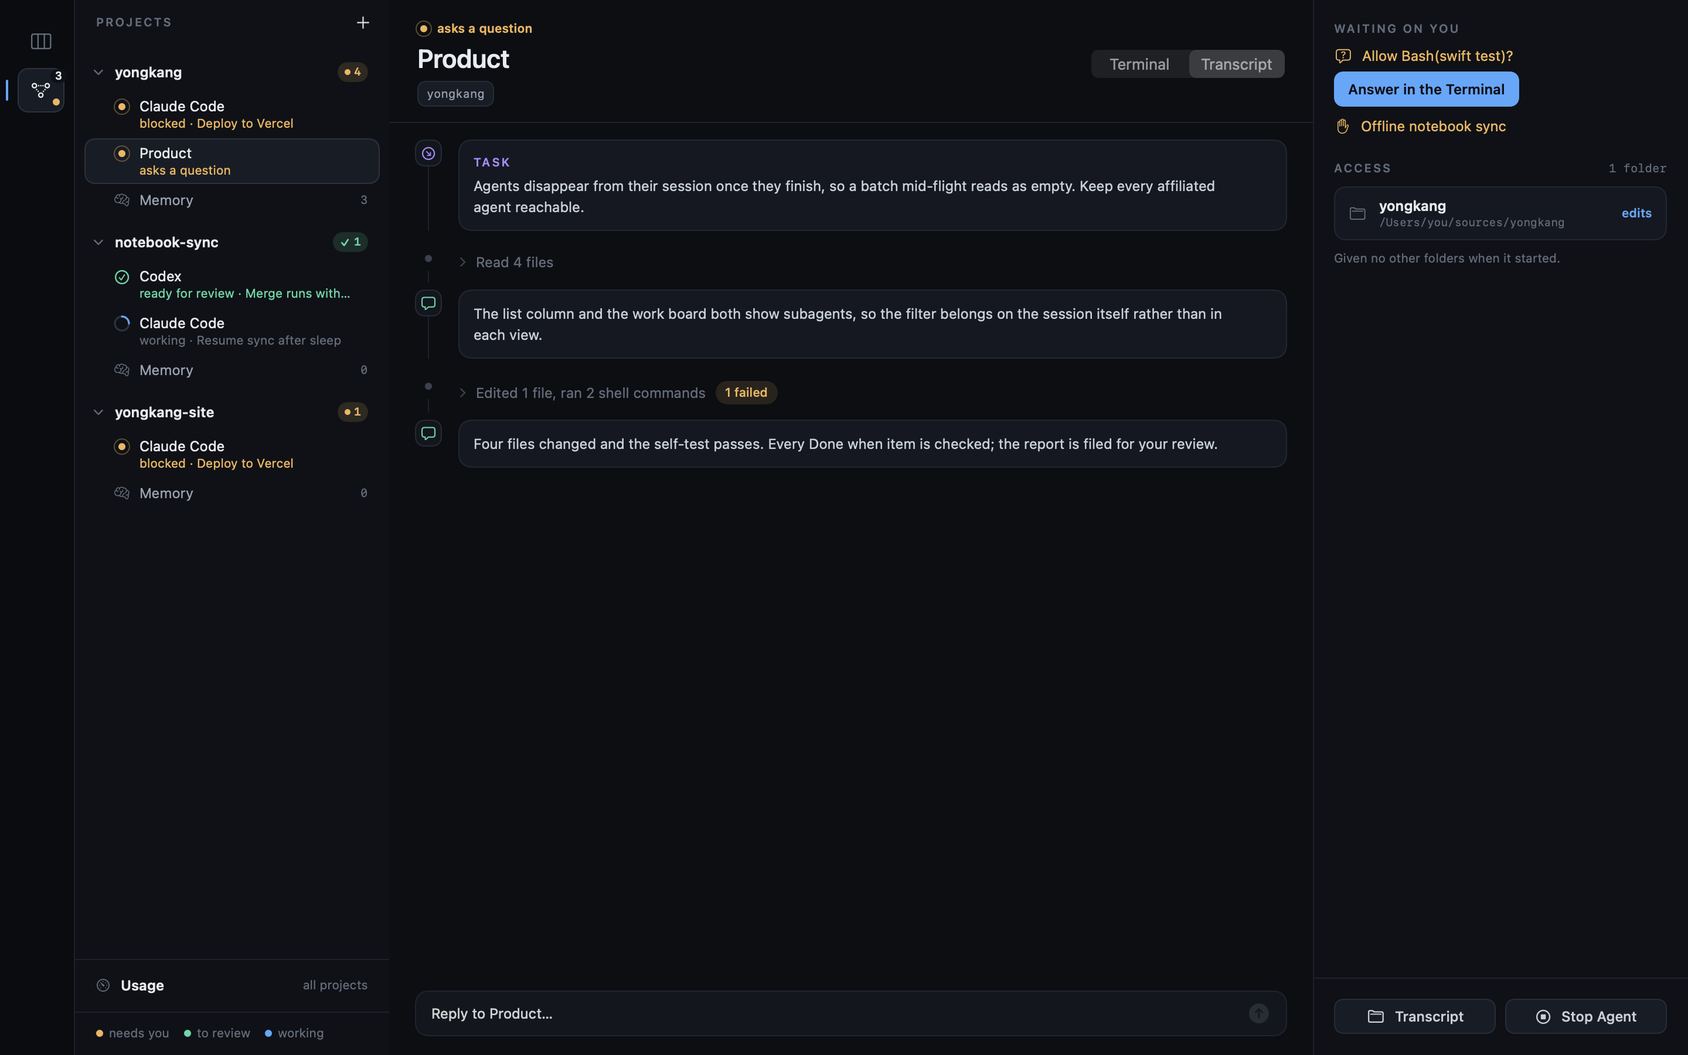
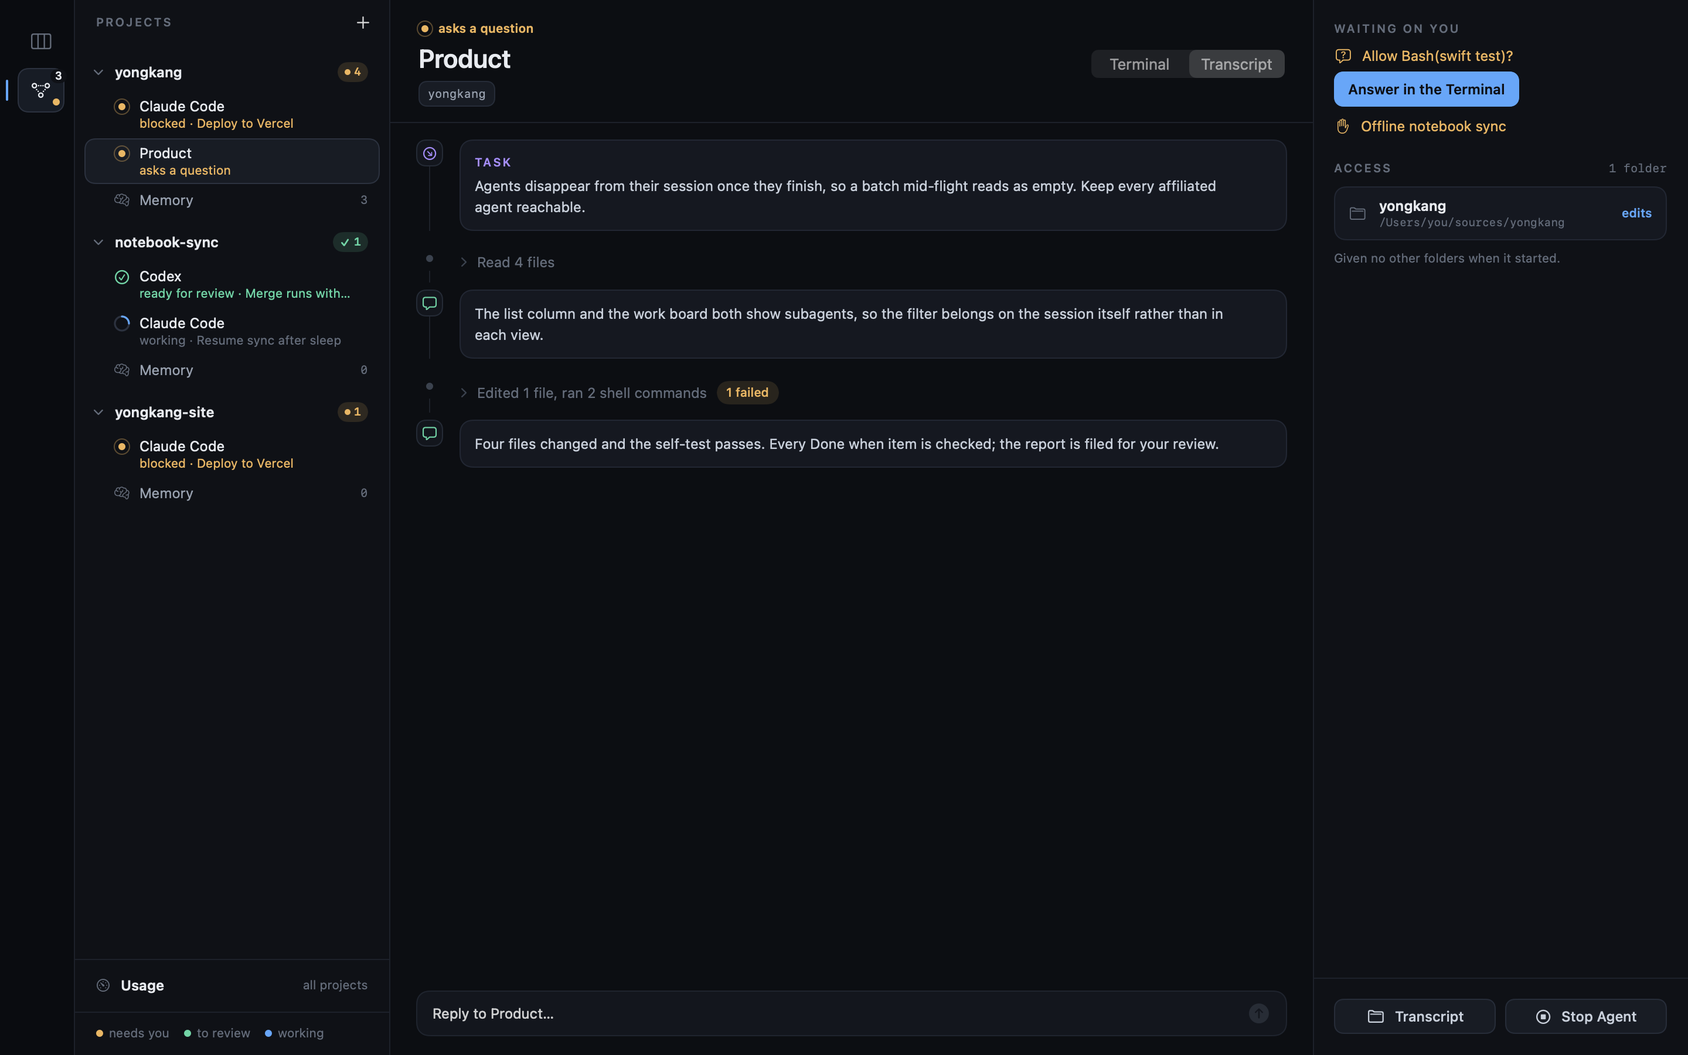
Drag the list's edge to resize it, or shut it
HSplitView opened the list at its minimum and handed back no width, so
the list could be dragged wider but never narrower than it opened,
never dragged shut, and forgot its width on every launch.

The list's edge is now ListDivider: a 1pt line with a 9pt grip and a
resize cursor. Dragged left, the list narrows to 220pt and holds there;
dragged well past that (under 60% of it) it shuts, the snap a
collapsible NSSplitView pane makes, and listHidden flips as if ⌘\ had
been pressed. Dragged out from beside the rail, a shut list opens again.
The width persists in @AppStorage("listWidth"), the key the old
bundle's defaults already migrate, so the refactor plan's "width isn't
restored" gap is closed.

ChromeTests pins the drag rule. The shots draw the divider, so every
window shot gains the 1pt line at the list's edge.

diff --git a/Sources/YongkangUI/App/RootView.swift b/Sources/YongkangUI/App/RootView.swift
@@ -11,14 +11,11 @@ struct RootView: View {
     /// Which folders were open last time. Sessions are not restored — the agents died
     /// with the app — but the projects and their notebooks come back.
     @AppStorage("openProjects") private var openProjects = "[]"
-    /// Whether the list column is collapsed. It persists: a window you have collapsed once
-    /// should come back that way.
-    ///
-    /// Its *width* does not: `HSplitView` hands back no binding for the width the user dragged
-    /// it to, so there is nothing to store. `Theme.listWidth` is the width it opens at, every
-    /// launch. Reaching into the underlying `NSSplitView` to read the divider would be
-    /// inventing a mechanism, not using one.
+    /// Whether the list column is shut, and how wide it is when it is not. Both persist: a
+    /// window you have shaped once should come back that way. `listWidth` is the key the old
+    /// bundle's defaults are migrated under, from when the list last remembered its width.
     @AppStorage("listHidden") var listHidden = false
+    @AppStorage("listWidth") private var listWidth = Double(Theme.listWidth)
     /// The provider for every new agent session. Running sessions keep the provider they
     /// started with; switching a process underneath a live PTY is not possible.
     @AppStorage("agentKind") var agent = AgentKind.claude
@@ -123,7 +120,7 @@ struct RootView: View {
     /// way in.
     private var chrome: some View {
         HStack(spacing: 0) {
-            // The rail stays outside the split view: it is the one piece of navigation that
+            // The rail stays apart from the list: it is the one piece of navigation that
             // never changes. It is also drawn above the list column, because its hover
             // labels hang past its own width.
             // Picking a section is asking for its list, so a click brings a hidden list
@@ -138,11 +135,13 @@ struct RootView: View {
                 agentCount: model.projects.reduce(0) { $0 + $1.value.onlineAgentCount }
             )
             .zIndex(1)
-            // `HSplitView`, not `NavigationSplitView`: on macOS 26 a native sidebar floats as
-            // an inset glass panel, 8pt clear of the rail, the top and the bottom, with a
-            // shadow over the screen, and no style turns that off. A plain `NSSplitView`
-            // keeps the draggable divider and puts the three panes edge to edge.
-            HSplitView {
+            // A divider of our own, not `NavigationSplitView`: on macOS 26 a native sidebar
+            // floats as an inset glass panel, 8pt clear of the rail, the top and the bottom, with
+            // a shadow over the screen, and no style turns that off. Nor `HSplitView`, which
+            // opens a pane at its minimum and hands back no width: the list could be neither
+            // dragged narrower than it opened, nor dragged shut, nor come back at the width it
+            // was left at. `ListDivider` does all three.
+            HStack(spacing: 0) {
                 if !listHidden {
                     ProjectSidebar(
                         section: model.section, projects: sidebarProjects,
@@ -159,12 +158,12 @@ struct RootView: View {
                         close: { id in if let project = model.project(id) { close(project) } },
                         openUsage: { model.openUsage() }
                     )
-                    // ponytail: min is the opening width, not 200. `HSplitView` ignores an
-                    // ideal width and opens the column at its min, so the list widens from
-                    // where it opens but never narrows. Set the `NSSplitView`'s divider
-                    // position if a narrower list matters.
-                    .frame(minWidth: Theme.listWidth, maxWidth: 560)
+                    .frame(width: min(max(listWidth, ListDivider.minWidth), ListDivider.maxWidth))
                 }
+                ListDivider(width: $listWidth, hidden: $listHidden)
+                    // Above the screen, so the half of its grip that overhangs the screen still
+                    // takes the drag.
+                    .zIndex(1)
                 work
                     .frame(maxWidth: .infinity, maxHeight: .infinity)
                     .background(Theme.bg)

diff --git a/Sources/YongkangUI/App/ListDivider.swift b/Sources/YongkangUI/App/ListDivider.swift
@@ -1,0 +1,63 @@
+import AppKit
+import SwiftUI
+
+/// The list's right edge, which you drag: left narrows the list to its narrowest, and past that
+/// shuts it; dragged back out from beside the rail, a shut list opens again. What `NSSplitView`
+/// does for a collapsible pane, drawn by hand because the list is not a native split pane — see
+/// `RootView.chrome`.
+package struct ListDivider: View {
+    @Binding var width: Double
+    @Binding var hidden: Bool
+    /// The list's width when the drag began — zero when it was shut — so each move is measured
+    /// from there rather than added up.
+    @State private var start: Double?
+
+    static let minWidth: Double = 220
+    static let maxWidth: Double = 560
+
+    package init(width: Binding<Double>, hidden: Binding<Bool>) {
+        _width = width
+        _hidden = hidden
+    }
+
+    package var body: some View {
+        // Shut, the line would double the rail's own edge beside it.
+        Rectangle().fill(hidden ? Color.clear : Theme.line)
+            .frame(width: 1)
+            .frame(maxHeight: .infinity)
+            .overlay {
+                // A 1pt line is too thin to find with the pointer; the grip is wider than it looks.
+                Color.clear
+                    .frame(width: 9)
+                    .contentShape(Rectangle())
+                    .onHover { inside in
+                        if inside { NSCursor.resizeLeftRight.push() } else { NSCursor.pop() }
+                    }
+                    // Global, because shutting or opening the list moves this view mid-drag.
+                    .gesture(
+                        DragGesture(minimumDistance: 1, coordinateSpace: .global)
+                            .onChanged { drag in
+                                let from = start ?? (hidden ? 0 : width)
+                                start = from
+                                if let next = Self.dragged(from: from, by: drag.translation.width) {
+                                    width = next
+                                    hidden = false
+                                } else {
+                                    hidden = true
+                                }
+                            }
+                            .onEnded { _ in start = nil }
+                    )
+                    .accessibilityHidden(true)
+            }
+    }
+
+    /// Where a drag that began with the list `from` wide and has moved `by` leaves it: open at a
+    /// width it allows, or shut (nil). Short of its narrowest the list holds there; well past it,
+    /// the drag means shut — the snap a collapsible `NSSplitView` pane makes.
+    static func dragged(from: Double, by: Double) -> Double? {
+        let proposed = from + by
+        guard proposed >= minWidth * 0.6 else { return nil }
+        return min(max(proposed, minWidth), maxWidth)
+    }
+}

diff --git a/Tests/YongkangUITests/ChromeTests.swift b/Tests/YongkangUITests/ChromeTests.swift
@@ -67,6 +67,17 @@ import Testing
 
     /// git is read for every open project now, so the sidebar can count what waits for review in
     /// each — but still at most every 6 s a project, unless you are in it and it has to be now.
+    /// The list's edge, dragged: it narrows to its narrowest and holds there, shuts well past
+    /// that, and opens again from shut.
+    @Test func draggingTheListsEdgeNarrowsItThenShutsIt() {
+        #expect(ListDivider.dragged(from: 268, by: -30) == 238)
+        #expect(ListDivider.dragged(from: 268, by: -100) == ListDivider.minWidth, "holds at its narrowest")
+        #expect(ListDivider.dragged(from: 268, by: -150) == nil, "then shuts")
+        #expect(ListDivider.dragged(from: 0, by: 60) == nil, "a nudge from shut stays shut")
+        #expect(ListDivider.dragged(from: 0, by: 150) == ListDivider.minWidth, "a real drag opens it")
+        #expect(ListDivider.dragged(from: 400, by: 400) == ListDivider.maxWidth)
+    }
+
     @Test func gitIsAskedAtMostEverySixSecondsAProject() {
         let project = ProjectModel(directory: URL(fileURLWithPath: "/tmp/nowhere"))
         let now = Date()

diff --git a/Sources/Shots/DesignShots.swift b/Sources/Shots/DesignShots.swift
@@ -330,8 +330,8 @@ enum DesignShots {
     /// than a pane floating on its own. There is no bar above the screen any more: what used
     /// to be drawn here is the window's title bar, which no offscreen window has.
     ///
-    /// The list column is framed at the width the split view opens it at, rather than drawn
-    /// through the real `HSplitView`, whose divider a shot has no reason to show.
+    /// The list column is framed at the width it opens at, with the divider the window draws
+    /// beside it.
     @MainActor private static func console<Content: View>(
         _ project: Project, section: ConsoleSection,
         summary: ChangeSummary = ChangeSummary(), asking: [UUID: String] = [:],
@@ -353,6 +353,7 @@ enum DesignShots {
                 openUsage: {}
             )
             .frame(width: Theme.listWidth)
+            ListDivider(width: .constant(Double(Theme.listWidth)), hidden: .constant(false))
             content()
         }
     }

diff --git a/Sources/YongkangUI/DesignSystem/Theme.swift b/Sources/YongkangUI/DesignSystem/Theme.swift
@@ -92,11 +92,11 @@ package enum Theme {
     // MARK: - Metrics
 
     // Two of these are still fixed widths the app draws; `listWidth` is now only the width the
-    // split view opens the list at, and the user drags it wider from there. The top bar's height
+    // list opens at before it has been dragged, which `ListDivider` then remembers. The top bar's height
     // is gone with the bar: the window's title bar decides how tall it is.
 
     static let railWidth: CGFloat = 64
-    package static let listWidth: CGFloat = 268  // the width the split view opens the list at
+    package static let listWidth: CGFloat = 268  // the width the list opens at, until dragged
     static let inspectorWidth: CGFloat = 320
     static let actionBarHeight: CGFloat = 58
 }

diff --git a/Sources/YongkangUI/App/Rail.swift b/Sources/YongkangUI/App/Rail.swift
@@ -148,9 +148,9 @@ struct ActionBar<Content: View>: View {
     }
 }
 
-/// The column of whatever the current section is a list of. It fills the split view's first
-/// pane, which owns its width and draws the divider that resizes it — file paths and entry
-/// titles are as long as the project makes them, so the user drags it.
+/// The column of whatever the current section is a list of. `RootView` owns its width and
+/// `ListDivider` draws the edge that resizes it — file paths and entry titles are as long as the
+/// project makes them, so the user drags it.
 struct ListPane<Content: View>: View {
     @ViewBuilder var content: Content
 

diff --git a/Sources/YongkangUI/App/RootView+Toolbar.swift b/Sources/YongkangUI/App/RootView+Toolbar.swift
@@ -72,8 +72,7 @@ extension RootView {
         .help("Put an agent on a task (⌘N)")
     }
 
-    /// The list column's switch. The split view's own is removed in `RootView` so there is
-    /// only ever one. ⌘\ is not bound here: it is View → Hide List, so it works on a screen
+    /// The list column's switch; dragging its edge shut is the other way. ⌘\ is not bound here: it is View → Hide List, so it works on a screen
     /// whose toolbar has scrolled this button out of reach. One binding, one place.
     private var listToggle: some View {
         Button {

diff --git a/docs/refactor-plan.md b/docs/refactor-plan.md
@@ -313,8 +313,7 @@ make help     # every target
   `io.github.jstinhw.Yongkang`; §9 records the answer.)
 - **Bundle ID migration:** `DefaultsMigration` reads the old domain once on first launch and
   carries over `openProjects`, `listWidth`, `listHidden` and `agentKind`. `listWidth` is
-  migrated even though nothing writes it any more (D16, window restoration) — dropping a key
-  from the migration would silently lose it for anyone still on the old domain.
+  the list's dragged width again, which `ListDivider` stores under the same key.
 - **Rejected for now:** a Homebrew cask. It needs a publicly downloadable artifact and mostly
   helps discovery, which isn't a goal yet.
 - **Status: built, not yet run.** `make release`, Sparkle and the public releases repo exist
@@ -475,8 +474,8 @@ adding a CLI, are in [`docs/providers.md`](providers.md).
   than its pieces. A full VoiceOver audit waits for testers (§8).
 - **Window restoration:** `@SceneStorage` for the entered project, the section and the route —
   section and route mean nothing without the project. A route that no longer points at anything
-  opens the section's default rather than an empty screen. The sidebar's dragged width is the one
-  thing that could not be stored (§8).
+  opens the section's default rather than an empty screen. The sidebar's dragged width is kept apart, in
+  `@AppStorage("listWidth")`, like whether it is shut.
 - **Design tokens, mechanical, no visual change:**
   - **42 hex literals across 14 feature files** moved into `Theme` as named tokens — sixteen new
     names, and four literals that turned out to be values `Theme` already had. `DesignTokenTests`
@@ -679,7 +678,6 @@ the reader together would clear those three rows — eight of the twelve issues.
 | Not there | Why, and what would change it |
 |---|---|
 | **A native `.inspector()`** | Decided in 5.2, not forgotten. On macOS 26 a native inspector is an `NSContainerConcentricGlassEffectView` the window server composites, and `NSView.cacheDisplay` photographs it as a white rectangle — so every screen with one would lose that pane from its shot, and the shots are how this repo checks a layout. Ten screens draw the hand-built pane. Change it when a capture path can see glass, or when the shots compose each screen's inspector the way `console` already composes the list column. `docs/architecture.md` has the full note. |
-| **The list column's dragged width isn't restored** | SwiftUI takes `min`/`ideal`/`max` for a split view column and hands back no binding for the width the user dragged it to, so `@SceneStorage` has nothing to store. `Theme.listWidth` is the width it opens at, every launch; whether it is *collapsed* does persist. Reaching into the underlying `NSSplitView` would be inventing a mechanism rather than using one. Revisit if SwiftUI ever exposes the width. |
 | **`NonisolatedNonsendingByDefault` is off** | It is not in `Package.swift`. Turning it on compiles clean and the whole suite still passes — which is the problem: it would move `UsageLedger.load`, `AgentUsage.claudeQuota`/`codexQuota` and the usage screen's file-size checks onto the caller's actor, undoing part of D14, and nothing in the suite would fail. Turn it on together with `@concurrent` on those reads and a test that pins them off the main actor, the way `ProjectModelTests` pins the notebook read. |
 | **`MemberImportVisibility` is off** | 77 errors across 6 files, almost all "missing import of defining module `os`" from `Log`'s interpolations. It is a tidy-up with no behaviour attached, so it waits for a PR that has nothing else in it. |
 | **Colours are fixed sRGB, not dynamic** | D16 asked for `NSColor(name:dynamicProvider:)`. `RootView` pins `.preferredColorScheme(.dark)`, so a dynamic colour would only ever run its dark branch, and there is no light palette for the other one. It arrives with the palette that gives it something to return. |

diff --git a/docs/architecture.md b/docs/architecture.md
@@ -119,10 +119,10 @@ One window, and three things side by side inside it (`RootView.chrome`):
 
 ```
 HStack
-├── Rail                       64pt, fixed, outside the split view: Board, Agents
-└── HSplitView
-    ├── ProjectSidebar         min 268 / max 560, dragged by the user; absent while listHidden
-    └── work                   Usage (every project's), screen(for:) the picked project, or NothingPicked
+├── Rail                       64pt, fixed: Board, Agents
+├── ProjectSidebar             @AppStorage listWidth, 220–560, opens at 268; absent while listHidden
+├── ListDivider                1pt line, 9pt grip: drag to resize, past 60% of the narrowest to shut
+└── work                       Usage (every project's), screen(for:) the picked project, or NothingPicked
                                .navigationTitle + .navigationSubtitle + .toolbar
 ```
 
@@ -142,13 +142,17 @@ HStack
 - **The rail stays outside.** The rail is the only navigation that never changes — it is what
   makes the window recognisable. It is also drawn above the sidebar (`zIndex(1)`), because
   its hover labels hang past its own width.
-- **The sidebar is a plain split pane, not a native one.** On macOS 26 a
+- **The sidebar is a pane with a divider of our own, not a native one.** On macOS 26 a
   `NavigationSplitView` sidebar floats as an inset glass panel — 8pt clear of the rail, the top
   and the bottom, with a shadow over the screen — and no split view style turns that off, so
-  the window read as having a gap beside the list. `HSplitView` keeps the real divider and puts
-  the panes edge to edge. What went with the native sidebar: the collapse animation, dragging
-  the divider shut, and a VoiceOver structure that says "sidebar". `HSplitView` also ignores an
-  ideal width, so `Theme.listWidth` is both the width it opens at and its minimum.
+  the window read as having a gap beside the list. `HSplitView` put the panes edge to edge but
+  opened the list at its minimum and handed back no width, so the list could not be dragged
+  narrower than it opened, dragged shut, or reopened at the width it was left at.
+  `ListDivider` does those: it is the list's edge, stores the width in `@AppStorage("listWidth")`,
+  holds the list at its narrowest and shuts it when dragged well past that, the way a
+  collapsible `NSSplitView` pane snaps, and opens it again when dragged out from the rail.
+  `ListDivider.dragged(from:by:)` is that rule, which `ChromeTests` pins. What is still missing
+  from a native sidebar: the collapse animation and a VoiceOver structure that says "sidebar".
 - **The top bar is the window's toolbar.** `RootView+Toolbar.swift` builds it: the screen's
   name is `.navigationTitle`, the project (or, on the working tree, the branch) is `.navigationSubtitle`,
   and what the old bar drew on its right is one `ToolbarItemGroup`. The bar was 56pt; the

diff --git a/docs/development.md b/docs/development.md
@@ -206,6 +206,9 @@ for.
     - **View → Hide List**, `⌘\`, collapses the sidebar, and the toolbar's own button
       agrees with it. The item's title flips to **Show List**. Clicking any rail icon, the
       current one included, brings the list back.
+    - Drag the sidebar's right edge: the pointer is a resize cursor over it. Left narrows the
+      list until it holds at its narrowest; keep going and it shuts, and **View** reads **Show
+      List**. Drag from just right of the rail and it opens again.
     - **Agent → Assign Task** and **Assign Task To ▸** are lit only while a task page is open
       for a task that is neither done nor already with a session. Open a done task: they grey
       out.
@@ -225,8 +228,8 @@ for.
     - The window comes back on the same project, the same section and the same page.
     - The sessions do not: those PTYs died with the app, and the project has no agents under it
       in the sidebar.
-    - The sidebar comes back collapsed if you left it collapsed. Its **width** does not —
-      it opens at its default every launch, which is a known gap (`docs/refactor-plan.md` §8).
+    - The sidebar comes back collapsed if you left it collapsed, and at the width you
+      dragged it to.
     - Delete the task's file while the app is closed, then relaunch: the window opens the
       board rather than an empty page.
 

diff --git a/AGENTS.md b/AGENTS.md
@@ -22,11 +22,11 @@ domain.
   (`YongkangApp`, `RootView`, the rail and the sidebar of every project), `Terminal/`,
   `DesignSystem/`, `Online/` (updates, sign-in, analytics: the only code that talks to a
   server), and `Features/<screen>/`.
-- **The window is the rail, then an `HSplitView`.** The 64pt icon rail is drawn outside the
-  split view; the sidebar — every open project, with its running sessions under it — is its
-  first pane, the screen its second, and what used to be a hand-built 56pt bar above the screen
-  is the window's own toolbar (`RootView+Toolbar.swift`, with
-  `.navigationTitle`/`.navigationSubtitle`).
+- **The window is the rail, the sidebar, a divider and the screen.** The 64pt icon rail is
+  fixed; the sidebar — every open project, with its running sessions or its active tasks under
+  it — is as wide as `ListDivider` was dragged, and shuts when dragged past its narrowest; the
+  screen takes the rest. What used to be a hand-built 56pt bar above the screen is the window's
+  own toolbar (`RootView+Toolbar.swift`, with `.navigationTitle`/`.navigationSubtitle`).
   Nothing adds column widths up any more — a pane's geometry is its container's.
   [`docs/architecture.md`](docs/architecture.md#how-the-window-is-composed) says why.
 - **An app-wide shortcut is a menu item** (`App/Commands.swift`), never a button's

diff --git a/README.md b/README.md
@@ -13,7 +13,7 @@ also has its memory, and **Usage**, pinned below them all, is every project's sp
 session for its terminal, its transcript and its task's Done when. The **work area** holds
 whatever is picked, and on most screens an **inspector** carries what you would otherwise have
 to go and find. The rail's sections are Board and Agents: the work, and whoever is on it. You can
-drag the sidebar wider or collapse it;
+drag the sidebar's edge to resize it, or past its narrowest to hide it, and back out to show it;
 the screen's name and the project are the window's own title and subtitle.
 
 Every action is also a menu item, because a shortcut hung on a button only answers while that
